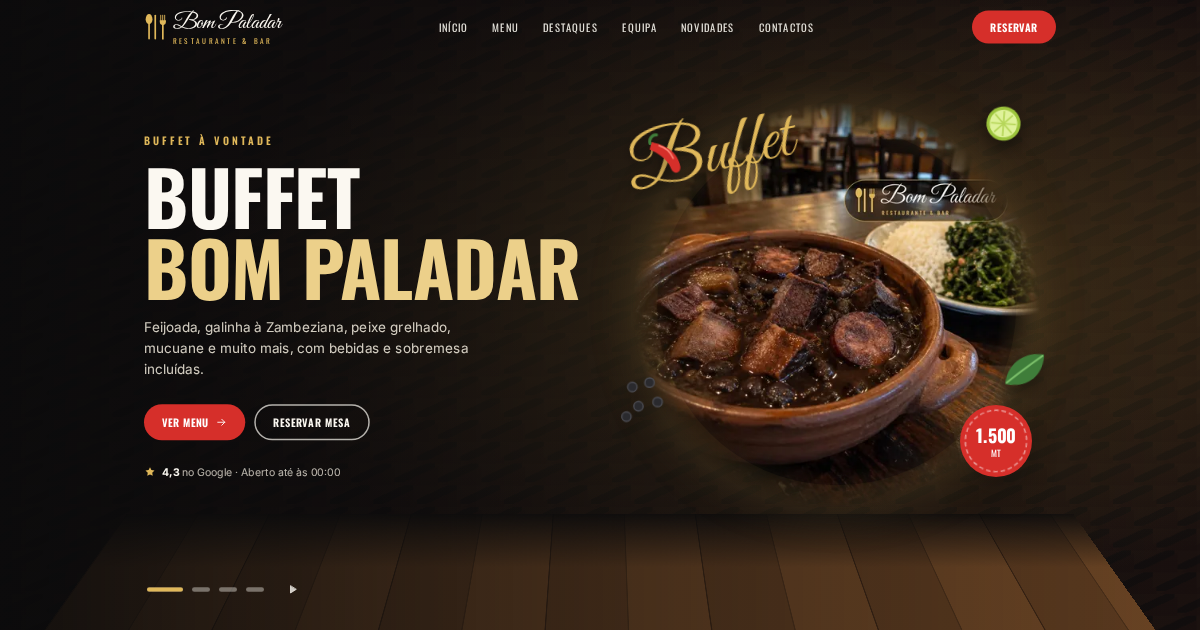
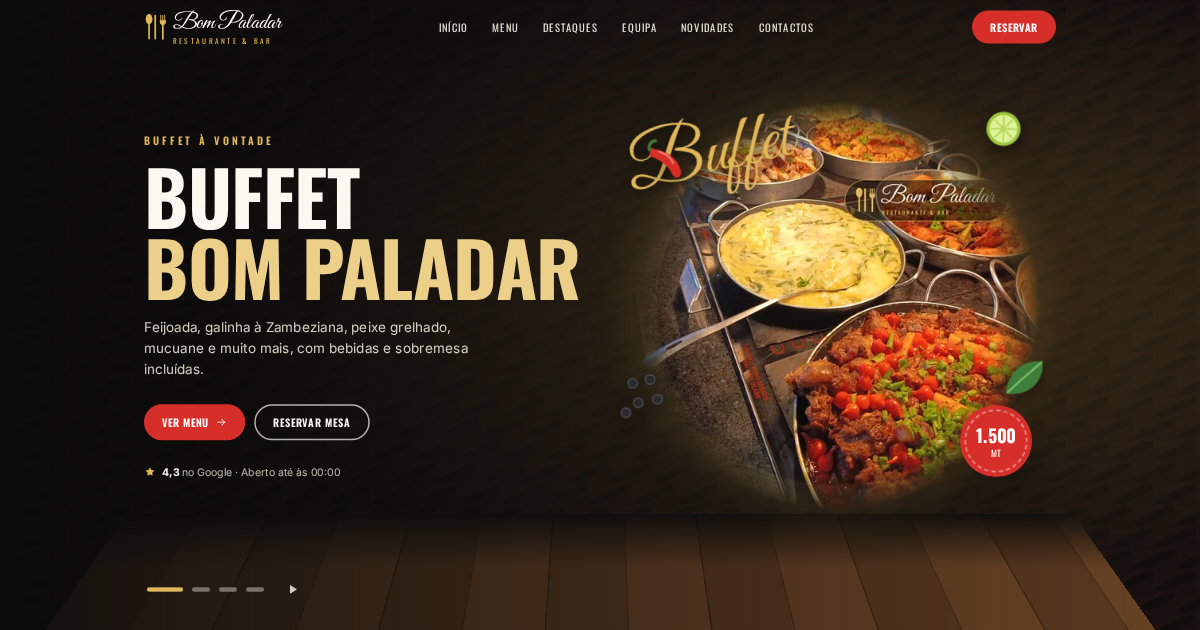
Home page uses only the client's photos
The hero opens with the client's buffet photo instead of the AI
feijoada (also the new share image). Shots and Vinhos categories become
Mariscos and Caipirinhas, the wine promo becomes a cocktails promo, and
the team, news and "Os mais pedidos" picks drop the AI photos. The menu
page header shows the galinha à Zambeziana instead of the feijoada.

Claude-Session: https://claude.ai/code/session_01X2LuxioKhU5FPsb2EAsFEE

Changed region(s): [[0.5242, 0.1508, 0.8942, 0.7841]]

diff --git a/src/content/home.ts b/src/content/home.ts
@@ -12,8 +12,8 @@ export const heroSlides: HeroSlide[] = [
     badge: { top: '1.500', bottom: 'MT' },
     visual: {
       art: 'grill',
-      photo: photos.feijoada,
-      alt: 'Feijoada à Bom Paladar com carnes e couve',
+      photo: photos.buffet,
+      alt: 'Travessas do buffet com carnes, galinha, arroz e guarnições',
     },
     decorations: ['chili', 'lime', 'pepper', 'basil'],
   },
@@ -93,19 +93,19 @@ export const categoryLinks: CategoryLink[] = [
     section: 'cocktails',
   },
   {
-    id: 'shots',
-    label: 'Shots',
-    art: 'cocktail',
-    tint: 'amber',
-    photo: photos.shots,
-    section: 'cocktails',
+    id: 'mariscos',
+    label: 'Mariscos',
+    art: 'seafood',
+    photo: photos.camaraoTigre,
+    section: 'buffet',
   },
   {
-    id: 'vinhos',
-    label: 'Vinhos',
-    art: 'wine',
-    photo: photos.vinhos,
-    section: 'vinhos-tintos',
+    id: 'caipirinhas',
+    label: 'Caipirinhas',
+    art: 'cocktail',
+    tint: 'lime',
+    photo: photos.caipirinha,
+    section: 'cocktails',
   },
 ]
 
@@ -134,12 +134,12 @@ export const popularTabs: { id: string; label: string; items: MenuItem[] }[] = [
   {
     id: 'massas',
     label: 'Massas & Lasanhas',
-    items: ['carbonara', 'fettuccine', 'bolonhesa', 'puttanesca-marisco', 'lasanha-carne', 'lasanha-frango'],
+    items: ['carbonara', 'fettuccine', 'bolonhesa', 'lasanha-carne', 'lasanha-frango', 'lasanha-legumes'],
   },
   {
     id: 'cocktails',
     label: 'Cocktails',
-    items: ['mojito', 'pina-colada', 'margarita', 'intense-girl', 'blue-lagoon', 'sangria'],
+    items: ['mojito', 'pina-colada', 'margarita', 'intense-girl', 'caipirinha', 'tequila-sunrise'],
   },
   {
     id: 'vinhos',
@@ -164,16 +164,17 @@ export const promos: Promo[] = [
     tone: 'ember',
   },
   {
-    id: 'vinhos',
-    kicker: 'Para acompanhar',
-    title: 'Carta de Vinhos',
-    text: 'Tintos, brancos, verdes e rosé, a partir de 1.000 MT a garrafa.',
-    cta: 'Ver vinhos',
-    href: '/menu/#vinhos-tintos',
+    id: 'cocktails',
+    kicker: 'Ao fim da tarde',
+    title: 'Cocktails de Assinatura',
+    text: 'Do Mojito ao Bom Paladar Intense Girl, a partir de 300 MT.',
+    cta: 'Ver cocktails',
+    href: '/menu/#cocktails',
     visual: {
-      art: 'wine',
-      photo: photos.vinhos,
-      alt: 'Copos de vinho tinto e branco',
+      art: 'cocktail',
+      tint: 'berry',
+      photo: photos.intenseGirl,
+      alt: 'Cocktail Intense Girl de morango e ananás',
     },
     tone: 'ink',
   },
@@ -230,7 +231,7 @@ export const team: TeamMember[] = [
     name: 'Sala',
     role: 'Serviço',
     bio: 'Recebe-o com a hospitalidade de Quelimane.',
-    visual: { art: 'wine', photo: photos.vinhos, alt: 'Vinho servido à mesa' },
+    visual: { art: 'pasta', photo: photos.massaCarbonara, alt: 'Massa servida à mesa' },
     socials: [],
   },
 ]
@@ -249,14 +250,14 @@ export const news: NewsPost[] = [
     },
   },
   {
-    id: 'vinhos',
+    id: 'pasta',
     date: '2026-10-08',
-    title: 'Conheça a nossa carta de vinhos',
-    excerpt: 'Do Casal Garcia ao The Chocolate Block: mais de 30 vinhos para acompanhar o jantar.',
+    title: 'O novo Menu Pasta',
+    excerpt: 'Tagliatelle Carbonara, Fettuccine, Bolonhesa e Putanesca de marisco, de 850 a 1.200 MT. E ainda três lasanhas.',
     visual: {
-      art: 'wine',
-      photo: photos.vinhos,
-      alt: 'Copos de vinho tinto e branco',
+      art: 'pasta',
+      photo: photos.massaCarbonara,
+      alt: 'Tagliatelle carbonara com frango e cogumelos',
     },
   },
   {

diff --git a/src/components/menu/MenuHero.tsx b/src/components/menu/MenuHero.tsx
@@ -6,7 +6,7 @@ import { Reveal, RevealGroup } from '../ui/Reveal'
 import { Visual } from '../ui/Visual'
 
 const SHOWCASE: { photo: Photo; alt: string; className: string }[] = [
-  { photo: photos.feijoada, alt: 'Feijoada à Bom Paladar', className: 'left-[2%] top-[18%] w-40 xl:w-52 animate-float-slow' },
+  { photo: photos.galinhaZambeziana, alt: 'Galinha à Zambeziana', className: 'left-[2%] top-[18%] w-40 xl:w-52 animate-float-slow' },
   { photo: photos.lagostaGrelhada, alt: 'Lagosta grelhada', className: 'right-[3%] top-[12%] w-44 xl:w-56 animate-float' },
   { photo: photos.mojito, alt: 'Mojito', className: 'right-[16%] bottom-[-8%] w-28 xl:w-36 animate-float' },
 ]
